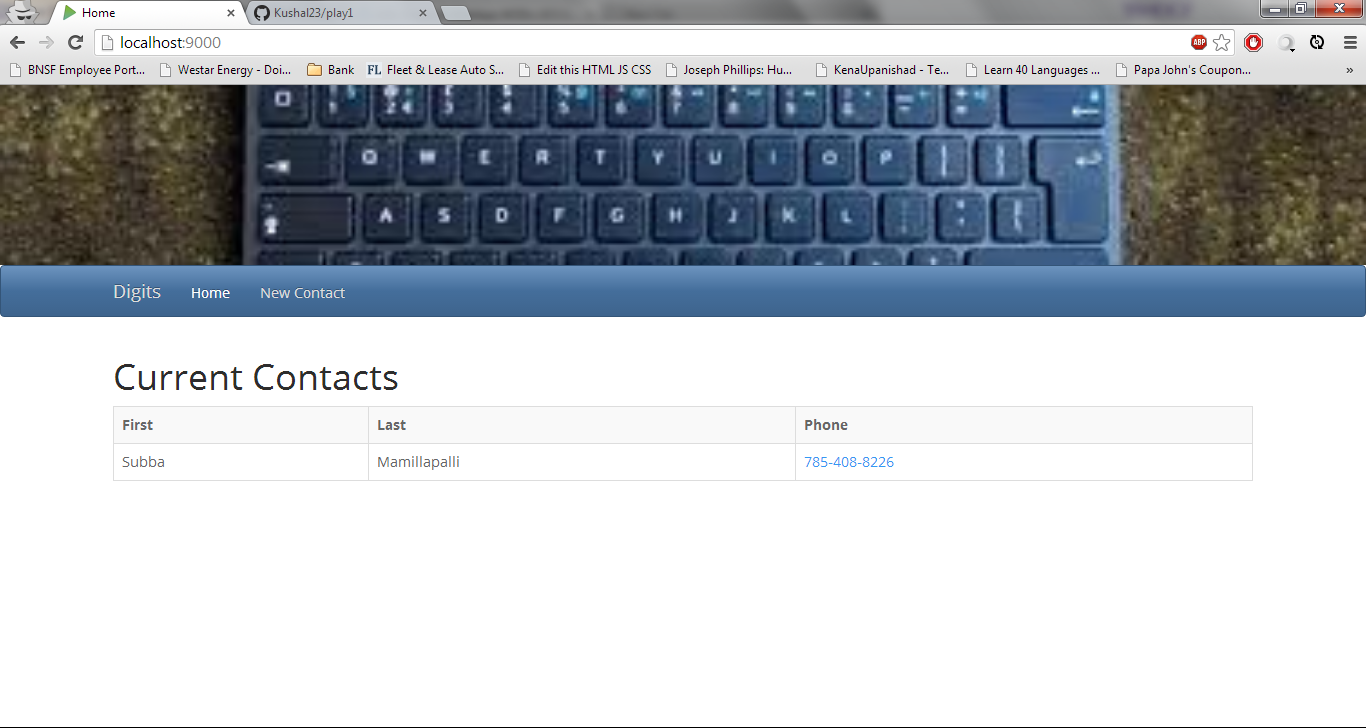
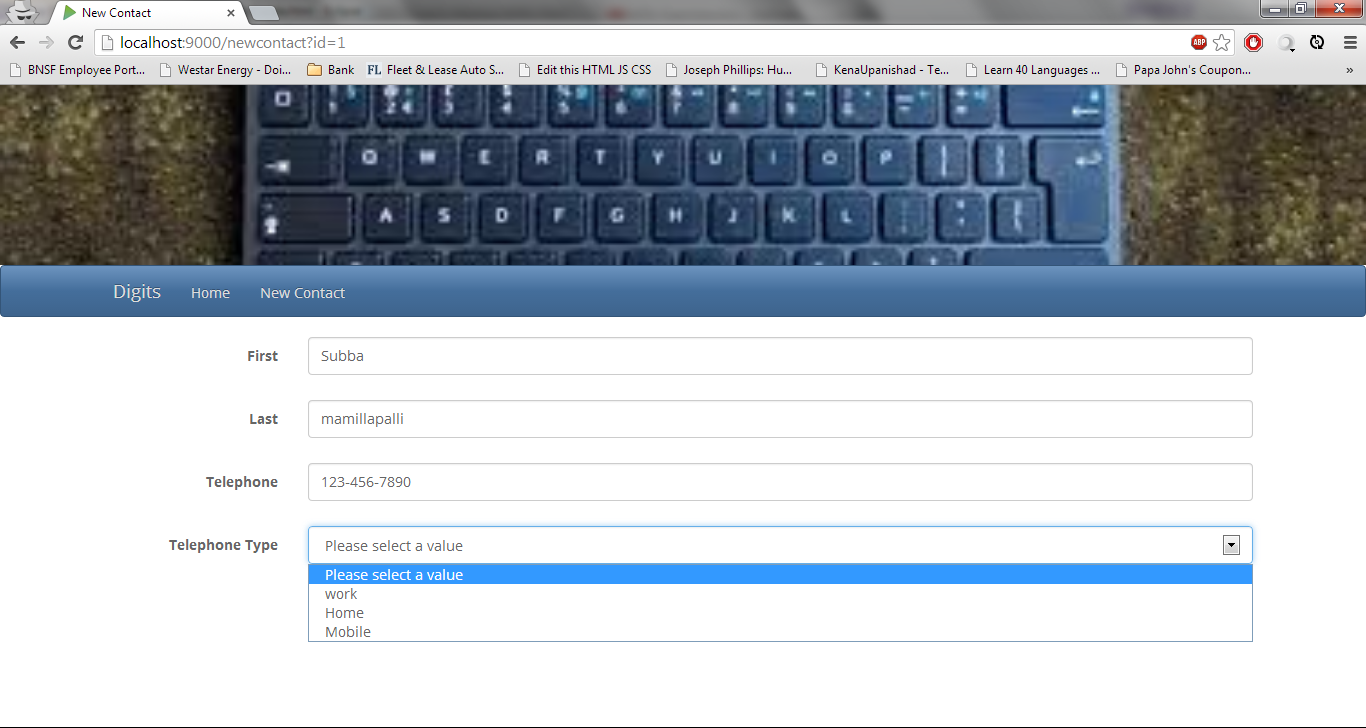
Added Telephone Type

diff --git a/app/views/bootstrap3/select.scala.html b/app/views/bootstrap3/select.scala.html
@@ -1,0 +1,19 @@
+@(field: Field, label: String = "CHANGEME", optionMap: Map[String, Boolean], isMultiple: Boolean, help: String = "")
+
+  <div class="form-group @if(field.hasErrors) {has-error}">
+    <label class="col-sm-2 control-label" for="@field.id">@label</label>
+    <div class="col-sm-10">
+      <select
+        class="form-control"
+        id="@field.id"
+        name="@if(isMultiple) {@(field.name + "[]")} else {@field.name}"
+        @if(isMultiple) {multiple="multiple"}>
+        @if(!isMultiple) {<option class="blank" value="">Please select a value</option>}
+        @for((optionName, isSelected) <- optionMap) {
+          <option id="@optionName" value="@optionName" @if(isSelected) {selected}>@optionName</option>
+        }
+      </select>
+      <span class="help-block">@help</span>
+      <span class="help-block">@{field.error.map { error => error.message }}</span>
+    </div>
+  </div>

diff --git a/app/views/Index.scala.html b/app/views/Index.scala.html
@@ -4,12 +4,13 @@
    <div class="container">
    <h1>Current Contacts</h1>
     <table class="table table-striped table-bordered">
-    <tr><th>First </th><th>Last </th><th>Phone </th></tr>
+    <tr><th>First </th><th>Last </th><th>Phone </th><th>Type </th></tr>
     @for(contact <- contacts){
     
     <tr><td>@contact.getFirstName()</td>
     <td>@contact.getLastName()</td>
     <td><a href="tel:+18002345678">@contact.getTelephone()</a></td>
+    <td>@contact.getTelephoneType()</a></td>
     <td><a href="@routes.Application.newContact(contact.getId())">Edit</a></td>
     </tr>
    }

diff --git a/app/views/NewContact.scala.html b/app/views/NewContact.scala.html
@@ -1,4 +1,4 @@
-@(contactForm: Form[views.formdata.ContactFormData]) 
+@(contactForm: Form[views.formdata.ContactFormData],telephoneTypeMap : Map[String,Boolean]) 
 
 @import helper._
 
@@ -17,9 +17,9 @@
 	
 	@text(contactForm("lastName"),"Last","Last Name")
 	
-	@text(contactForm("telephone"),"Phone","xxx-xxx-xxxx")
+	@text(contactForm("telephone"),"Telephone","xxx-xxx-xxxx")
 	 
-	 
+	@bootstrap3.select(contactForm("telephoneType"),"Telephone Type",telephoneTypeMap,false,"")
 	 
 	<div class="form-group">
 		<div class="col-sm-offset-2 col-sm-10">

diff --git a/app/controllers/Application.java b/app/controllers/Application.java
@@ -1,10 +1,13 @@
 package controllers;
 
+import java.util.Map;
+
 import models.ContactDB;
 import play.data.Form;
 import play.mvc.Controller;
 import play.mvc.Result;
 import views.formdata.ContactFormData;
+import views.formdata.TelephoneTypes;
 import views.html.Index;
 import views.html.NewContact;
 
@@ -29,23 +32,35 @@ public class Application extends Controller {
 	 * @return The Page1.
 	 */
 	public static Result newContact(long id) {
-		ContactFormData data = (id==0) ? new ContactFormData(): new ContactFormData(ContactDB.getContact(id));
-		Form<ContactFormData> formData = Form.form(ContactFormData.class).fill(data); 
-		return ok(NewContact.render(formData));
+		ContactFormData data = (id == 0) ? new ContactFormData()
+				: new ContactFormData(ContactDB.getContact(id));
+		Form<ContactFormData> formData = Form.form(ContactFormData.class).fill(
+				data);
+		Map<String, Boolean> telephoneTypeMap = TelephoneTypes
+				.getTypes(data.telephoneType);
+		return ok(NewContact.render(formData, telephoneTypeMap));
 
 	}
 
+	/**
+	 * Returns page1, a simple example of a second page to illustrate
+	 * 
+	 * @return
+	 */
 	public static Result postContact() {
 		Form<ContactFormData> formData = Form.form(ContactFormData.class)
 				.bindFromRequest();
 		if (formData.hasErrors()) {
-			return badRequest(NewContact.render(formData));
+			Map<String, Boolean> telephoneTypeMap = TelephoneTypes.getTypes();
+			return badRequest(NewContact.render(formData, telephoneTypeMap));
 		} else {
 			ContactFormData data = formData.get();
 			ContactDB.addContact(data);
 			System.out.format("%s %s %s%n", data.firstName, data.lastName,
 					data.telephone);
-			return ok(NewContact.render(formData));
+			Map<String, Boolean> telephoneTypeMap = TelephoneTypes
+					.getTypes(data.telephoneType);
+			return ok(NewContact.render(formData, telephoneTypeMap));
 		}
 
 	}

diff --git a/app/views/formdata/ContactFormData.java b/app/views/formdata/ContactFormData.java
@@ -14,30 +14,25 @@ public class ContactFormData {
 
 	public String telephone = "";
 
+	public String telephoneType = "";
+
 	public long id;
-	
-	
-	
-	
+
 	public ContactFormData() {
 		super();
-		 
+
 	}
-	
+
 	public ContactFormData(Contact contact) {
-		
-		
+
 		super();
 		this.id = contact.getId();
 		this.firstName = contact.getFirstName();
 		this.lastName = contact.getLastName();
 		this.telephone = contact.getTelephone();
-		
-		 
+		this.telephoneType = contact.getTelephoneType();
+
 	}
-
-
-
 
 	public List<ValidationError> validate() {
 
@@ -45,20 +40,26 @@ public class ContactFormData {
 
 		if (firstName == null || firstName.length() == 0) {
 			errors.add(new ValidationError("firstName",
-					"first Name is required"));
+					"First Name is required"));
 		}
 
 		if (lastName == null || lastName.length() == 0) {
-			errors.add(new ValidationError("lastName", "last Name is required"));
+			errors.add(new ValidationError("lastName", "Last Name is required"));
 		}
 
 		if (telephone == null || telephone.length() == 0) {
-			errors.add(new ValidationError("telephone", "telephone is required"));
+			errors.add(new ValidationError("telephone", "Telephone is required"));
 		}
 
 		if (telephone.length() < 12) {
 			errors.add(new ValidationError("telephone",
-					"telephone must be of format xxx-xxx-xxxx"));
+					"Telephone must be of format xxx-xxx-xxxx"));
+		}
+
+		System.out.println("telephoneType="+ telephoneType);
+		if (!TelephoneTypes.isType(telephoneType)) {
+			errors.add(new ValidationError("telephoneType",
+					"Telephone type is invalid"));
 		}
 
 		return errors.isEmpty() ? null : errors;

diff --git a/app/models/Contact.java b/app/models/Contact.java
@@ -14,8 +14,22 @@ public class Contact {
 	private String lastName = "";
 
 	private String telephone = "";
+	
+	private String telephoneType = "";
 
 	 
+	public Contact(long id, String firstName, String lastName,
+			String telephone, String telephoneType) {
+		super();
+		this.id = id;
+		this.firstName = firstName;
+		this.lastName = lastName;
+		this.telephone = telephone;
+		this.telephoneType = telephoneType;
+	}
+
+
+
 	/**
 	 * 
 	 * @param firstName
@@ -72,5 +86,17 @@ public class Contact {
 
 	public void setId(long id) {
 		this.id = id;
+	}
+
+
+
+	public String getTelephoneType() {
+		return telephoneType;
+	}
+
+
+
+	public void setTelephoneType(String telephoneType) {
+		this.telephoneType = telephoneType;
 	}
 }

diff --git a/app/views/formdata/TelephoneTypes.java b/app/views/formdata/TelephoneTypes.java
@@ -1,0 +1,36 @@
+package views.formdata;
+
+import java.util.HashMap;
+import java.util.Map;
+
+public class TelephoneTypes {
+
+	private static String[] types = { "Home", "work", "Mobile" };
+
+	public static Map<String, Boolean> getTypes() {
+
+		Map<String, Boolean> typeMap = new HashMap<>();
+		for (String type : types) {
+			typeMap.put(type, false);
+		}
+		return typeMap;
+
+	}
+
+	public static Map<String, Boolean> getTypes(String telType) {
+
+		Map<String, Boolean> typeMap = getTypes();
+		
+		 
+		if (isType(telType)) {
+			typeMap.put(telType, true);
+		} 
+		return typeMap;
+
+	}
+
+	public static boolean isType(String telType) {
+
+		return TelephoneTypes.getTypes().keySet().contains(telType);
+	}
+}

diff --git a/app/models/ContactDB.java b/app/models/ContactDB.java
@@ -21,10 +21,10 @@ public class ContactDB {
 		if (dataForm.id == 0) {
 			long id = contacts.size() + 1;
 			contact = new Contact(id, dataForm.firstName, dataForm.lastName,
-					dataForm.telephone);
+					dataForm.telephone,dataForm.telephoneType);
 		} else {
 			contact = new Contact(dataForm.id, dataForm.firstName,
-					dataForm.lastName, dataForm.telephone);
+					dataForm.lastName, dataForm.telephone,dataForm.telephoneType);
 		}
 
 		contacts.put(contact.getId(), contact);

diff --git a/README.md b/README.md
@@ -7,9 +7,9 @@ Digits
 ![screenshot](https://raw.github.com/kushal23/play1/Attempt-1/doc/digits2.png)
 
 
-![screenshot](https://raw.github.com/kushal23/play1/Attempt-1-1-1/doc/digits3.png)
+![screenshot](https://raw.github.com/kushal23/play1/DigitsSelection-1/doc/digits5.png)
 
-![screenshot](https://raw.github.com/kushal23/play1/Attempt-1-1-1-1-1/doc/digits5.png)
+![screenshot](https://raw.github.com/kushal23/play1/DigitsSelection-1/doc/digits4.png)
 
 
 Overview
